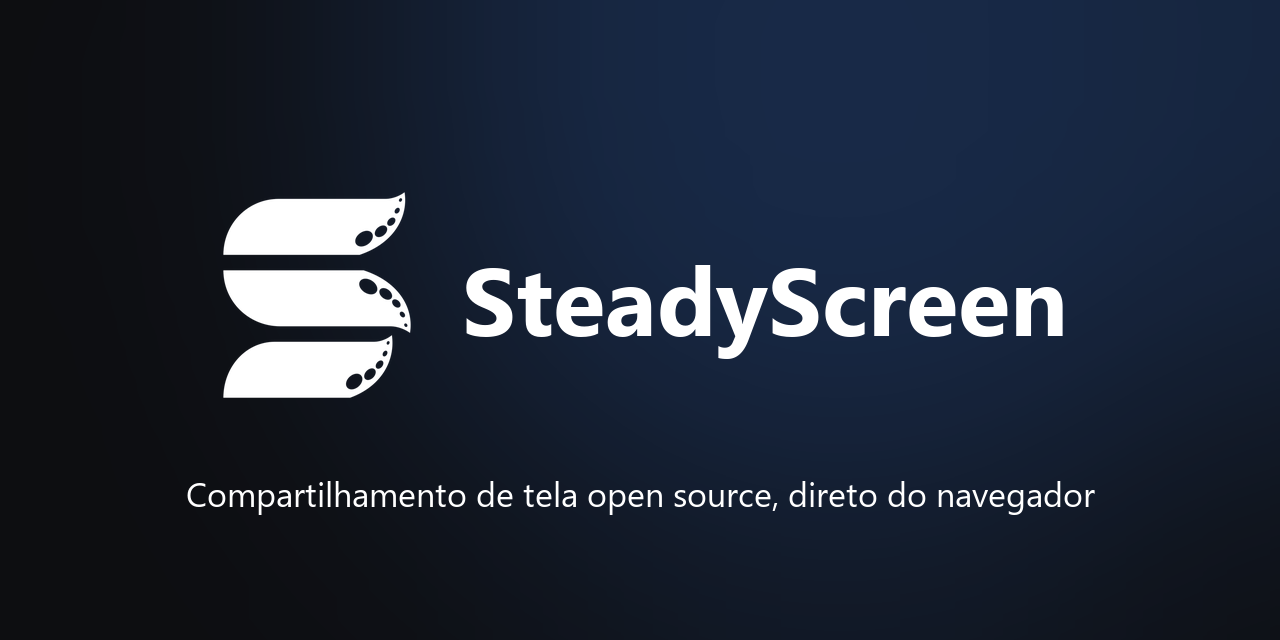
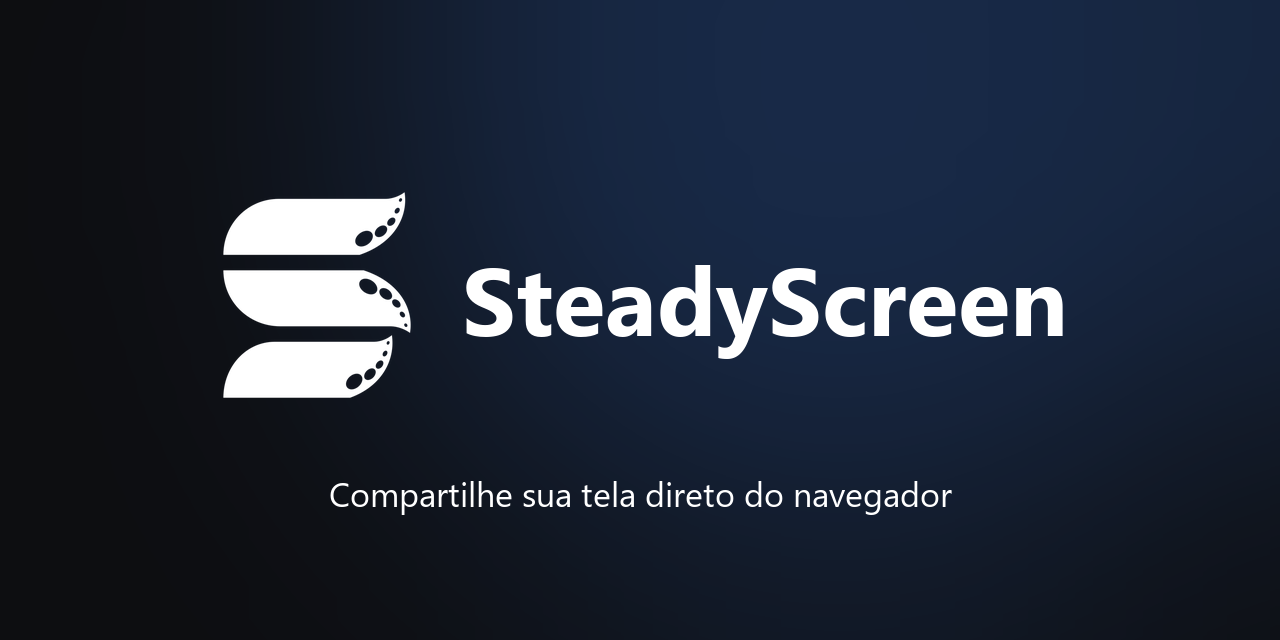
docs: textos do README mais simples

Changed region(s): [[0.1562, 0.75, 0.8438, 0.8125]]

diff --git a/README.md b/README.md
@@ -7,12 +7,15 @@
 
 <h1 align="center">SteadyScreen</h1>
 
-<p align="center">Compartilhamento de tela de código aberto, direto do navegador.</p>
+<p align="center">Compartilhe sua tela com os amigos direto do navegador, sem instalar nada.</p>
 
-> **Fase 1 (atual):** quem compartilha usa só o navegador (`getDisplayMedia`) e o vídeo vai direto,
-> por WebRTC, para até 5 pessoas assistindo (P2P). O servidor só apresenta os navegadores um ao outro.
+Você cria uma sala, escolhe a tela e manda o link. Quem abrir já começa a assistir.
+Por enquanto dá para até 5 pessoas assistirem ao mesmo tempo.
 
 ## Como funciona
+
+O vídeo vai direto do seu navegador para o de quem está assistindo (WebRTC). O servidor só ajuda
+os navegadores a se encontrarem, ele não recebe o vídeo.
 
 ```
 Quem compartilha (navegador)            Servidor Go (server/)             Quem assiste (navegador)
@@ -22,19 +25,19 @@ Quem compartilha (navegador)            Servidor Go (server/)             Quem a
   RTCPeerConnection ════════════ vídeo e áudio direto (WebRTC P2P) ════════ <video>
 ```
 
-| Pasta | O que é |
+| Pasta | O que tem |
 |---|---|
-| `web/` | Site em Next.js + TypeScript: página inicial, `/compartilhar/[id]` e `/sala/[id]` |
-| `server/` | API em Go: cria salas, gera links e faz a sinalização WebRTC |
+| `web/` | O site, em Next.js + TypeScript |
+| `server/` | O servidor, em Go: cria as salas, os links e conecta as pessoas |
 
-A parte de transmissão fica isolada em `web/src/lib/host.ts` e `web/src/lib/viewer.ts`. Na próxima fase,
-ela é trocada por um servidor em Go que distribui o vídeo (SFU), e aí o limite de 5 pessoas deixa de existir.
+Toda a parte de transmissão fica em `web/src/lib/host.ts` e `web/src/lib/viewer.ts`. Mais pra frente
+ela vai passar por um servidor em Go que distribui o vídeo (SFU), e aí o limite de 5 pessoas acaba.
 
 ## Rodando no seu PC
 
-Pré-requisitos: [Node.js](https://nodejs.org) 20+ e [Go](https://go.dev/dl) 1.23+.
+Você vai precisar do [Node.js](https://nodejs.org) 20+ e do [Go](https://go.dev/dl) 1.23+.
 
-**1. Servidor** (em um terminal):
+**1. Servidor** (num terminal):
 
 ```bash
 cd server
@@ -52,31 +55,31 @@ npm run dev
 
 Abra http://localhost:3000, clique em **Crie sua sala**, depois em **Escolher tela**, e abra o link da sala em outra aba.
 
-### Assistir de outro computador da mesma rede
+### Assistindo de outro PC na mesma rede
 
-Na página de compartilhar, troque `localhost` pelo IP do seu PC (ex.: `http://192.168.0.10:3000/sala/abc123`).
-Quem compartilha precisa estar em `localhost` ou em HTTPS, porque o navegador só permite capturar a tela
-nesses casos. Quem assiste pode usar o IP normalmente. Se o Windows perguntar, libere as portas 3000 e 8080 no firewall.
+Troque `localhost` pelo IP do seu PC no link da sala (tipo `http://192.168.0.10:3000/sala/abc123`).
+Quem compartilha tem que estar em `localhost` ou em HTTPS, porque só assim o navegador deixa capturar
+a tela. Quem assiste pode usar o IP de boa. Se o Windows perguntar, libera as portas 3000 e 8080 no firewall.
 
-## Configuração do servidor
+## Configurando o servidor
 
 | Variável | Padrão | Para que serve |
 |---|---|---|
 | `ADDR` | `:8080` | Endereço e porta |
-| `MAX_VIEWERS` | `5` | Espectadores por sala |
-| `ALLOWED_ORIGINS` | *(vazio = qualquer)* | Sites que podem usar a API, separados por vírgula. Defina em produção. |
+| `MAX_VIEWERS` | `5` | Quantas pessoas podem assistir por sala |
+| `ALLOWED_ORIGINS` | *(vazio = qualquer um)* | Sites que podem usar a API, separados por vírgula. Em produção, preencha. |
 | `STUN_URLS` | `stun:stun.l.google.com:19302` | Servidores STUN |
-| `TURN_URLS`, `TURN_USERNAME`, `TURN_CREDENTIAL` | *(vazio)* | Servidor TURN (coturn), necessário na VPS |
+| `TURN_URLS`, `TURN_USERNAME`, `TURN_CREDENTIAL` | *(vazio)* | Servidor TURN (coturn), precisa na VPS |
 
-No site, `NEXT_PUBLIC_SERVER_URL` aponta para o servidor (padrão: mesmo host, porta 8080).
+No site, `NEXT_PUBLIC_SERVER_URL` diz onde está o servidor (se não colocar nada, usa o mesmo endereço na porta 8080).
 
-## Roteiro
+## Próximos passos
 
-- [x] **Fase 1:** compartilhar pelo navegador, P2P, até 5 espectadores, localhost
-- [ ] Subir na VPS: domínio, HTTPS, TURN (coturn)
-- [ ] **Fase 2:** SFU em Go (Pion), sem limite de 5; Sunshine + NVENC/AMF no PC de quem compartilha; fallback com WebCodecs
-- [ ] **Fase 3:** app nativo com motor de captura próprio, controle remoto de mouse e teclado, instalador assinado
+- [x] Compartilhar pelo navegador, até 5 pessoas, rodando no PC
+- [ ] Colocar no ar numa VPS, com domínio, HTTPS e TURN (coturn)
+- [ ] Servidor de vídeo em Go (Pion) para tirar o limite de 5; captura com Sunshine + NVENC/AMF no PC de quem compartilha
+- [ ] App para PC com captura própria, controle remoto de mouse e teclado e instalador
 
 ## Licença
 
-[GPL-3.0](LICENSE).
+[GPL-3.0](LICENSE)
